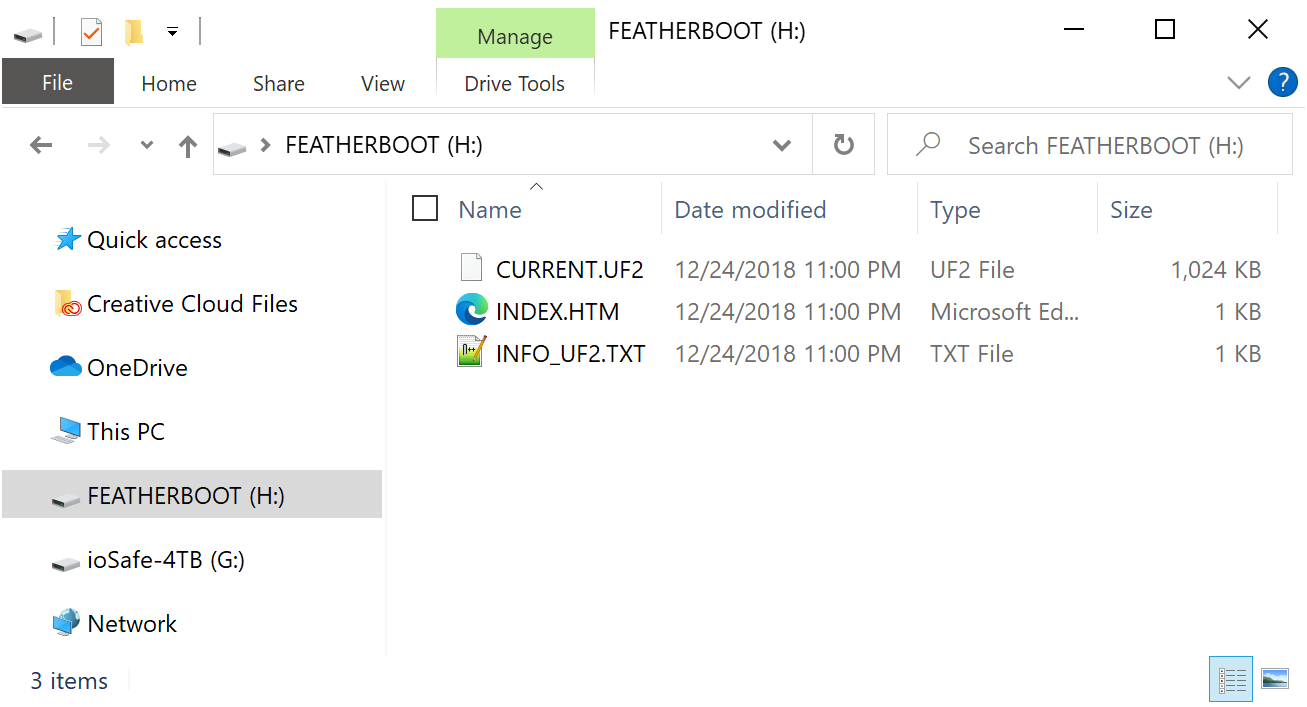
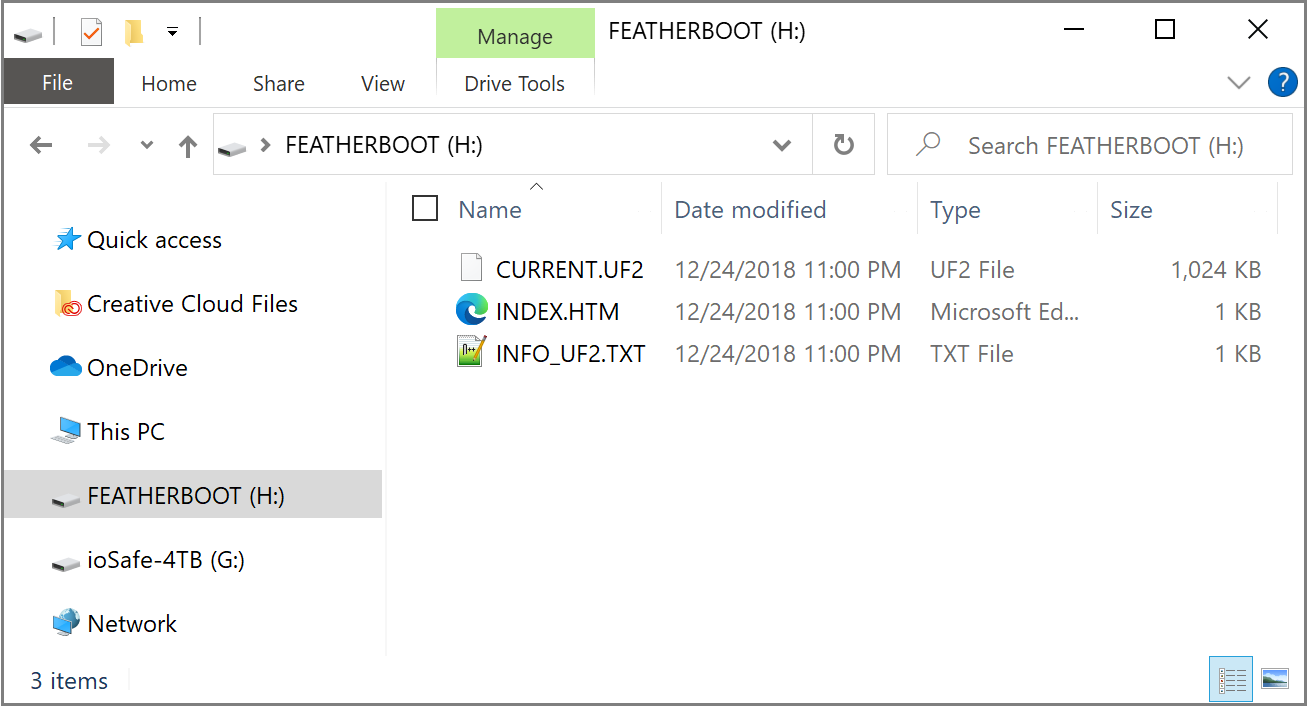
fixed the image for FEATHERBOOT screen shot

Changed region(s): [[0.0, 0.0, 1.0, 1.0]]

diff --git a/README.md b/README.md
@@ -52,7 +52,7 @@ Here's how:
 
 1. At time of writing, the latest version is 6.1.0 and the UF2 file is named "adafruit-circuitpython-feather\_m4\_express-en_US-6.1.0.uf2"<br/><img src="img/circuit_python_feather_m4.png" width="67%" height="67%" alt="screen shot CircuitPython download" />
 
-1. Start the bootloader on the Feather board by double-clicking its Reset button. After a moment, you should see a "FEATHERBOOT" drive appear.<br/><img src="img/windows_featherboot.png" width="50%" height="50%" alt="screen shot FEATHERBOOT drive" />
+1. Start the bootloader on the Feather board by double-clicking its Reset button. After a moment, you should see a "FEATHERBOOT" drive appear.<br/><img src="img/windows_featherboot.png" width="67%" height="67%" alt="screen shot FEATHERBOOT drive" />
 
 1. Drag the circuitpython UF2 file from Windows to FEATHERBOOT. (There is no need to rename the downloaded file.)<br/>First, the file will download and the Feather reboots.<br/>Then you should see a CIRCUITPY drive appear as an external "hard drive" with a few files already on it.
 
